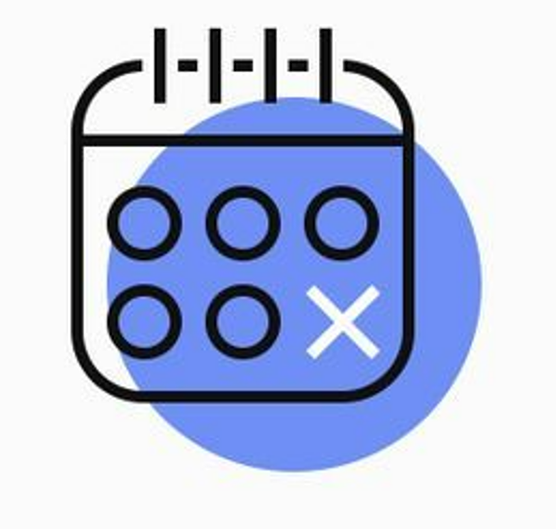
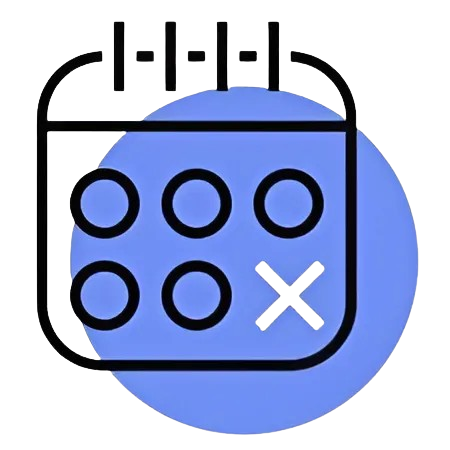
2/6 cont

diff --git a/blooddonationsystem_frontend/src/pages/Home.tsx b/blooddonationsystem_frontend/src/pages/Home.tsx
@@ -10,7 +10,7 @@ import rohanImg from './images/User/Rohan.png';
 import calendarImg from './images/procedure/Calendar.png';
 import healthCheckImg from './images/procedure/Health_check.png';
 import donationImg from './images/procedure/Donation.png';
-import afterDonationImg from './images/procedure/after_donation.png';
+import afterDonationImg from './images/procedure/After_donation.png';
 
 import bloodTypeImg from './images/BloodType/BloodType.png';
 

diff --git a/blooddonationsystem_frontend/src/pages/components/Home.css b/blooddonationsystem_frontend/src/pages/components/Home.css
@@ -182,8 +182,8 @@
     }
 
     .icon-circle img {
-      width: 40px;
-      height: 40px;
+      width: 60px;
+      height: 60px;
       opacity: 0.8;
     }
 
